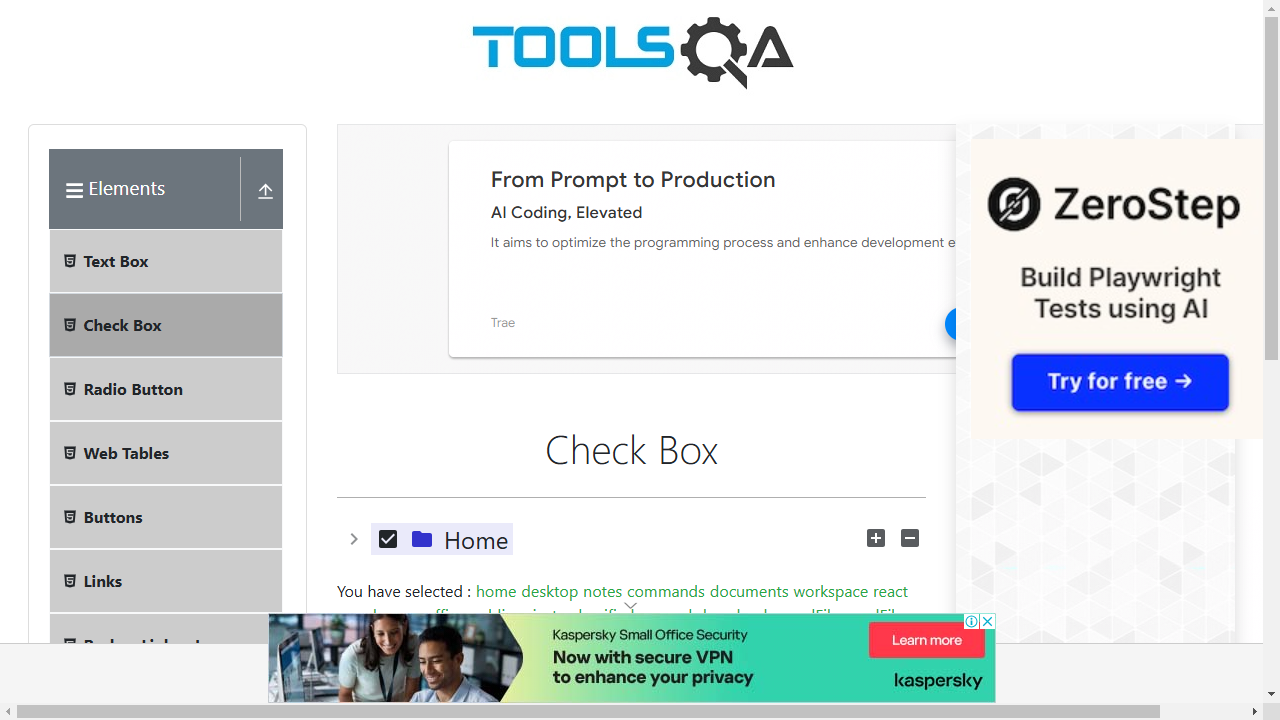
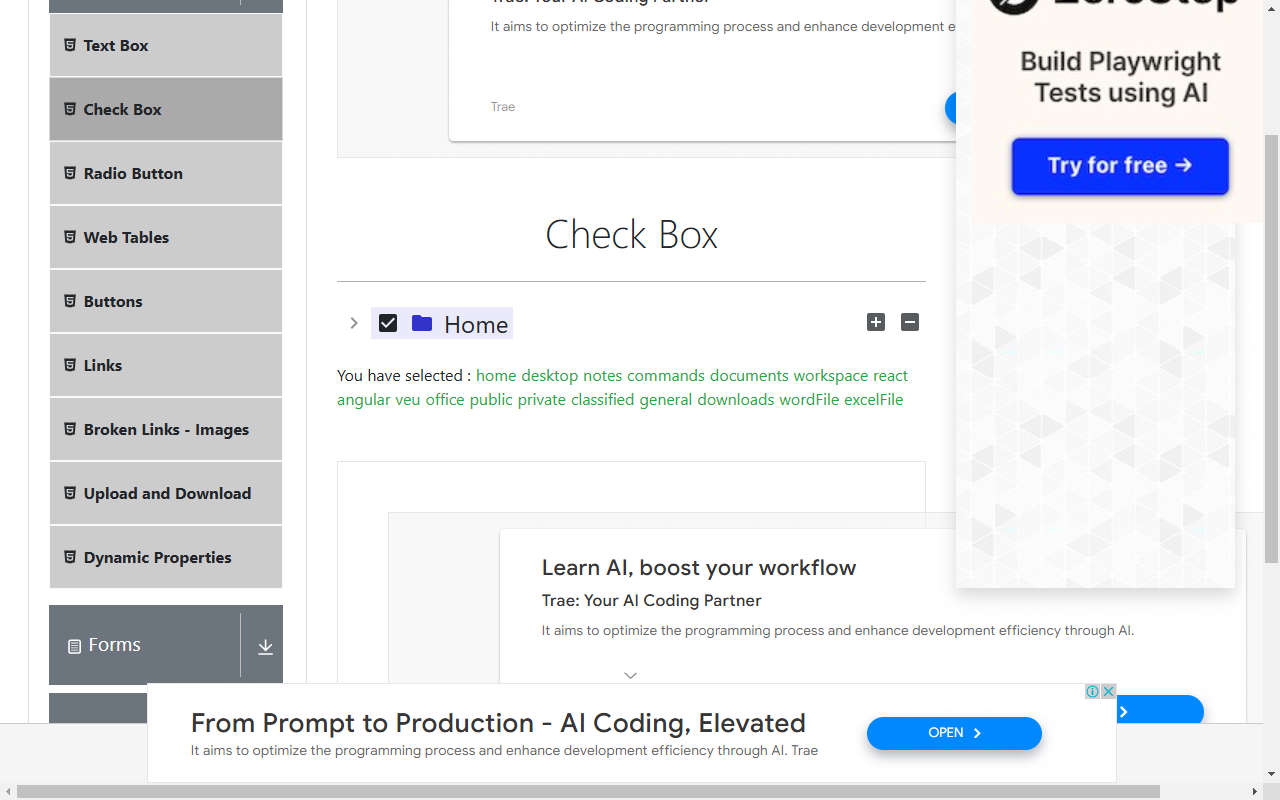
Enhance checkbox interaction with assertions and improve screenshot handling; add sleep for result visibility

diff --git a/checkboxes.py b/checkboxes.py
@@ -10,6 +10,7 @@ async def main():
             screenshots=True, snapshots=True, sources=True
         )
         page = await context.new_page()
+        await page.set_viewport_size({"width": 1280, "height": 800})
         await page.goto("https://demoqa.com/checkbox")
         # print(await page.title())
         # Actions
@@ -17,10 +18,13 @@ async def main():
         await page.screenshot(path="screenshots/checkbox.png")
         # Assertions
         assert await page.is_checked('label[for="tree-node-home"]') is True
-        await expect(page.locator("#result")).to_have_text("You selected :homedesktopnotescommandsdocumentsworks")
+        await expect(page.locator("#result")).to_have_text("home desktop notes commands documents workspace react angular veu office public private classified general downloads wordFile excelFile ")
+
         # stop tracing
         await context.tracing.stop(path="tracing/checkbox.zip")
         # close browser
+        # add a sleep of 5 to see the result 
+        await asyncio.sleep(10)  # Adding sleep here
         await browser.close()
 
 
